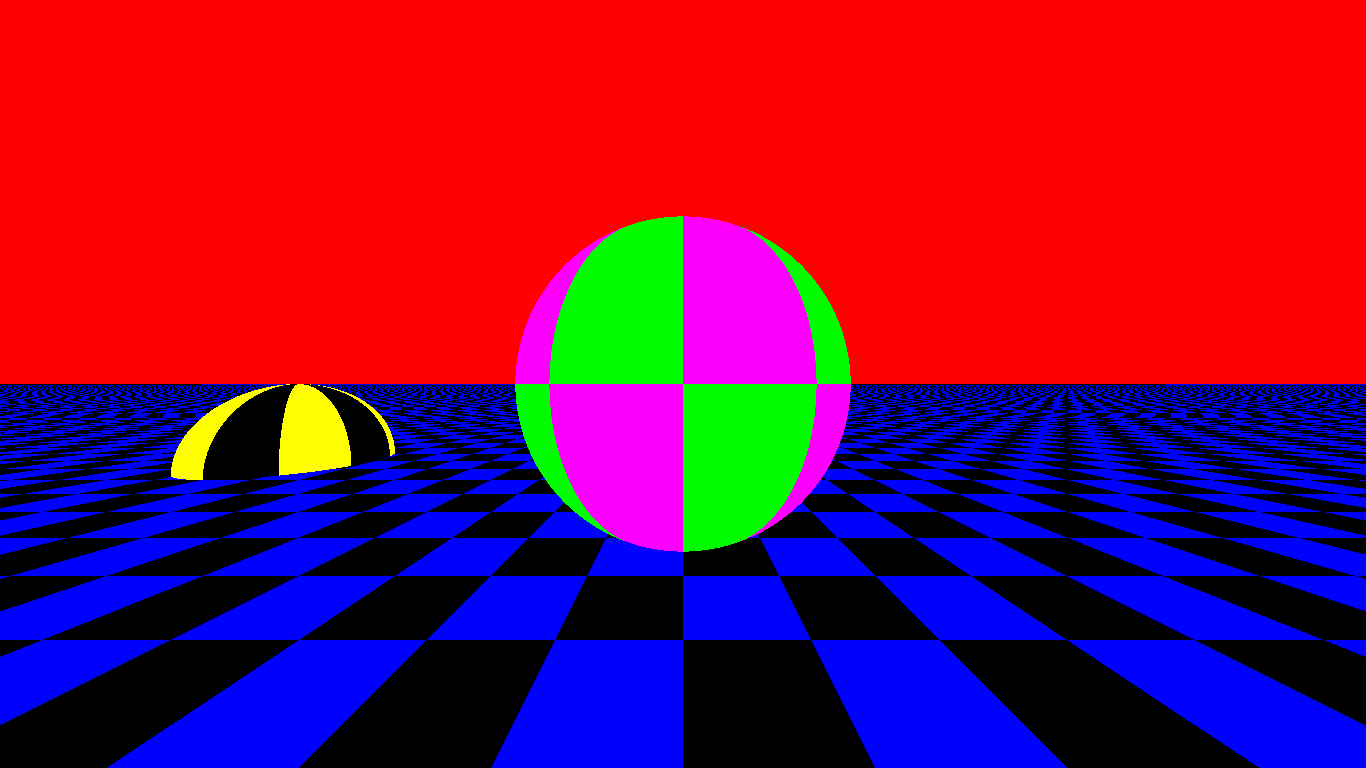
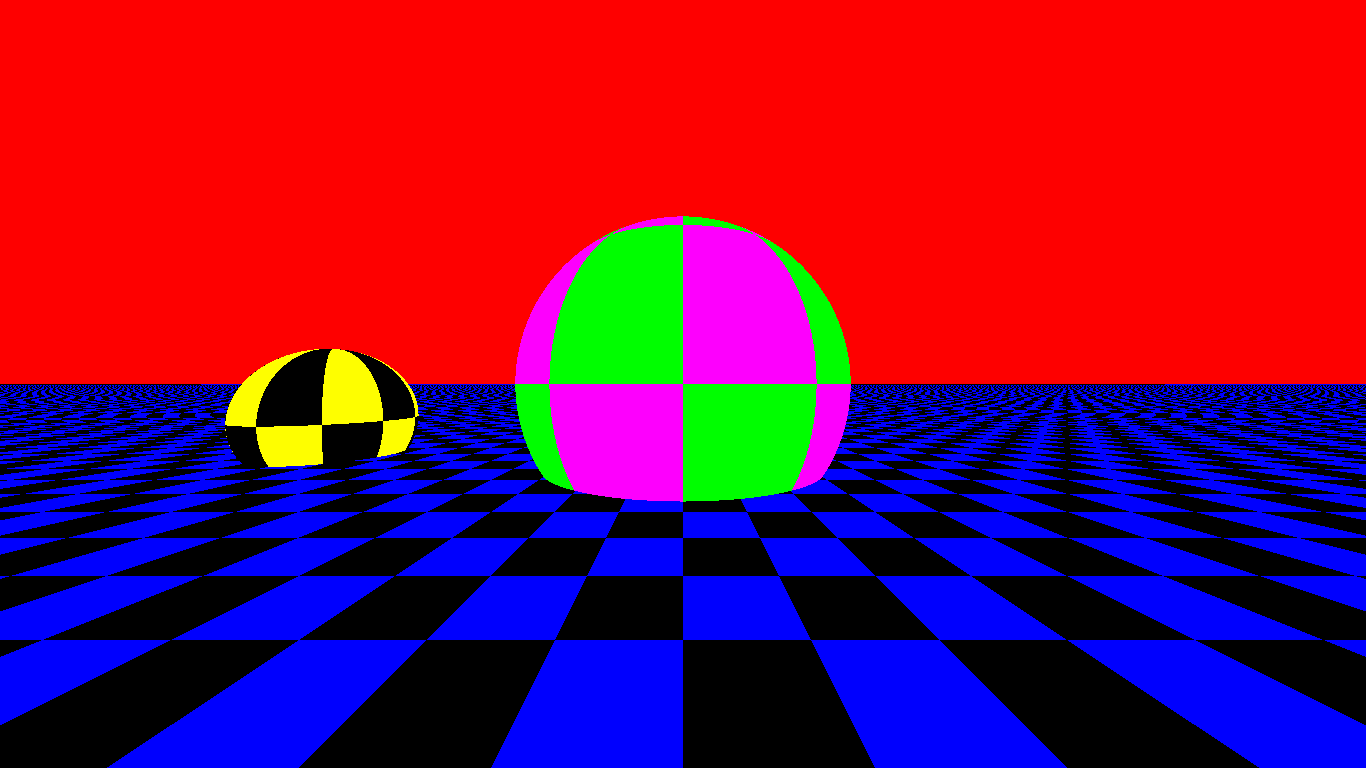
implement furnace test

Changed region(s): [[0.123, 0.4375, 0.3075, 0.625], [0.3997, 0.625, 0.6149, 0.7188], [0.4612, 0.2812, 0.5534, 0.3125]]

diff --git a/Trace/ImageTracer.cs b/Trace/ImageTracer.cs
@@ -58,7 +58,7 @@ public class ImageTracer
             }
         }
     }
-    /*
+    
     public void FireAllRays(World? scene, Func <Ray, Color> func)
     {
         if (scene == null)
@@ -76,107 +76,5 @@ public class ImageTracer
                 Image.SetPixel(col, row, color);
             }
         }
-    }*/
-
-    public void FireAllRays(World? scene, Func<Ray, Color> func)
-    {
-        if (scene == null)
-        {
-            Image.SetAllPixels(Color.Black);
-        }
-
-        for (var row = 0; row < Image.Height; row++)
-        {
-            for (var col = 0; col < Image.Width; col++)
-            {
-                var cumColor = Color.Black;
-                
-                if()
-            }
-        }
-        
     }
-    
-    
-    /*
-     for row in range(self.image.height):
-            for col in range(self.image.width):
-                cum_color = Color(0.0, 0.0, 0.0)
-
-                if self.samples_per_side > 0:
-                    # Run stratified sampling over the pixel's surface
-                    for inter_pixel_row in range(self.samples_per_side):
-                        for inter_pixel_col in range(self.samples_per_side):
-                            u_pixel = (inter_pixel_col + self.pcg.random_float()) / self.samples_per_side
-                            v_pixel = (inter_pixel_row + self.pcg.random_float()) / self.samples_per_side
-                            ray = self.fire_ray(col=col, row=row, u_pixel=u_pixel, v_pixel=v_pixel)
-                            cum_color += func(ray)
-
-                    self.image.set_pixel(col, row, cum_color * (1 / self.samples_per_side**2))
-                else:
-                    ray = self.fire_ray(col=col, row=row)
-                    self.image.set_pixel(col, row, func(ray))
-
-     */
-    
-    
-    
-    /*
-    public void FireAllRaysBw(World? scene)
-    {
-        if (scene == null)
-        {
-            Image.SetAllPixels(Color.Black);
-            return;
-        }
-        
-        for (var row = 0; row < Image.Height; row++)
-        {
-            for (var col = 0; col < Image.Width; col++)
-            {
-                var ray = FireRay(col, row);
-                Image.SetPixel(col, row, Bw(scene, ray));
-            }
-        }
-    }
-    
-    public void FireAllRaysFlat(World? scene)
-    {
-        if (scene == null)
-        {
-            Image.SetAllPixels(Color.Black);
-            return;
-        }
-        
-        for (var row = 0; row < Image.Height; row++)
-        {
-            for (var col = 0; col < Image.Width; col++)
-            {
-                var ray = FireRay(col, row);
-                Image.SetPixel(col, row, Flat(scene, ray, Color.Black));
-            }
-        }
-    }
-
-    private static Color Bw(World scene, Ray ray)
-    {
-        return scene.ray_intersection(ray) != null ? Color.White : Color.Black;
-    }
-    
-    /// <summary>
-    /// Flat shading: returns only the material's pigment
-    /// </summary>
-    public static Color Flat(World scene, Ray ray, Color backgroundColor)
-    {
-        var hit = scene.ray_intersection(ray);
-        if (hit == null)
-            return backgroundColor;
-
-        var material = hit.Material!;
-    
-        var pigmentColor = material.Pigment.GetColor(hit.SurfacePoint);
-
-        return pigmentColor;
-    }
-    */
 }

diff --git a/Myraytracer/Command.cs b/Myraytracer/Command.cs
@@ -85,7 +85,8 @@ public class DemoCommand : ICommand
         
         var yellowCheck = new Material
         {
-            EmittedRadiance = new CheckeredPigment(Color.Yellow, Color.Black)  
+            EmittedRadiance = new UniformPigment(Color.Yellow),
+            Brdf = new SpecularBrdf()
         };
         var red = new Material
         {
@@ -102,13 +103,13 @@ public class DemoCommand : ICommand
         };
 
         scene.AddShape(new Sphere(
-            radius: 0.1f,
-            transformation: Transformation.Translation(new Vec(-1.5f, 0, 0f)),
+            radius: 0.4f,
+            transformation: Transformation.Translation(new Vec(-1f, 0, 0f)),
             material: checkeredMaterial));
         
         scene.AddShape(new Sphere(
-            radius: 0.1f,
-            transformation: Transformation.Translation(new Vec(-0.9f, 1f, 0.5f)),
+            radius: 0.2f,
+            transformation: Transformation.Translation(new Vec(-0.9f, 1f, -0.1f)),
             material: yellowCheck));
         
         scene.AddShape(new Plane(
@@ -121,7 +122,8 @@ public class DemoCommand : ICommand
 
         var image = new HdrImage(Width, Height);
         var tracer = new ImageTracer(image, Camera);
-        var render = new FlatRenderer(scene);
+        var pcg = new Pcg();
+        var render = new PathTracer(world: scene, pcg: pcg, numOfRays: 3, maxDepth: 3, russianRouletteLimit: 4);
         tracer.FireAllRays(scene, render.Render);
 
         using var pfmStream = new MemoryStream();

diff --git a/Trace.Tests/RendererTest.cs b/Trace.Tests/RendererTest.cs
@@ -133,4 +133,36 @@ public class RendererTest(ITestOutputHelper testOutputHelper)
             Assert.True(Approx(expected, color.B));
         }
     }
+
+    [Fact]
+    public void FurnaceTest()
+    {
+        var pcg = new Pcg();
+        for (var i = 0; i < 5; i++)
+        {
+            var emittedRadiance = pcg.Random_float();
+            var reflectance = pcg.Random_float();
+            
+            var world = new World();
+            
+            var enclosureMaterial = new Material
+            {
+                Brdf = new DiffusiveBrdf {
+                    Pigment = new UniformPigment(Color.White * reflectance) 
+                },
+                EmittedRadiance = new UniformPigment(Color.White * emittedRadiance)
+            };
+            
+            world.AddShape(new Sphere(material: enclosureMaterial));
+            var pathTracer = new PathTracer(world: world, pcg: pcg, numOfRays: 1, maxDepth: 100, russianRouletteLimit: 101);
+
+            var ray = new Ray(origin: new Point(0.0f, 0.0f, 0.0f), direction: new Vec(1f, 0f, 0f));
+            var color = pathTracer.Render(ray);
+            var expected = emittedRadiance / (1.0f - reflectance);
+            _testOutputHelper.WriteLine($"expected: {expected}, actual: {color.R}, {color.G}, {color.B}");
+            Assert.True(Approx(expected, color.R));
+            Assert.True(Approx(expected, color.G));
+            Assert.True(Approx(expected, color.B));
+        }
+    }
 }

diff --git a/Trace/Renderer.cs b/Trace/Renderer.cs
@@ -97,6 +97,7 @@ public class PathTracer : Renderer
     {
     }
     
+    
 
     public override Color Render(Ray ray)
     {
@@ -106,8 +107,8 @@ public class PathTracer : Renderer
         if(hitRecord == null) return BackgroundColor;
         
         var hitMaterial = hitRecord.Material!;
-        var hitColor = hitMaterial.EmittedRadiance.GetColor(hitRecord.SurfacePoint);
-        var emittedRadiance = hitMaterial.Brdf.Pigment.GetColor(hitRecord.SurfacePoint);
+        var hitColor = hitMaterial.Brdf.Pigment.GetColor(hitRecord.SurfacePoint);
+        var emittedRadiance = hitMaterial.EmittedRadiance.GetColor(hitRecord.SurfacePoint);
         
         var hitColorLum = Math.Max(hitColor.R, Math.Max(hitColor.G, hitColor.B));
         
@@ -115,7 +116,7 @@ public class PathTracer : Renderer
         if (ray.Depth >= RussianRouletteLimit)
         {
             var q = Math.Max(0.05f, 1 - hitColorLum);
-            if (Pgc.Random() > q) hitColor *= 1.0f / (1.0f - q);
+            if (Pgc.Random_float() > q) hitColor *= 1.0f / (1.0f - q);
             else return emittedRadiance;
         }
 

diff --git a/Trace/Material.cs b/Trace/Material.cs
@@ -149,11 +149,11 @@ public class DiffusiveBrdf : Brdf
     public override Ray ScatterRay(Pcg pcg, Vec incomingDir, Point interactionPoint, Normal normal, int depth)
     {
         var onb = Vec.CreateOnbFromZ(Normal.ToVec(normal));
-        var cosThetaSq = pcg.Random();
+        var cosThetaSq = pcg.Random_float();
         var cosTheta = (float)Math.Sqrt(cosThetaSq);
         var sinTheta = (float)Math.Sqrt(1.0f - cosThetaSq);
 
-        var phi = 2.0f * Math.PI * pcg.Random();
+        var phi = 2.0f * Math.PI * pcg.Random_float();
 
         return new Ray(
             origin: interactionPoint,

diff --git a/Trace.Tests/GeometryTest.cs b/Trace.Tests/GeometryTest.cs
@@ -43,7 +43,7 @@ public class GeometryTests
         var pcg = new Pcg();
         for (var i = 0; i < 10000; i++)
         {
-            var normal = new Vec(pcg.Random(), pcg.Random(), pcg.Random());
+            var normal = new Vec(pcg.Random_float(), pcg.Random_float(), pcg.Random_float());
             normal.Normalize();
             var onb = Vec.CreateOnbFromZ(normal);
             
